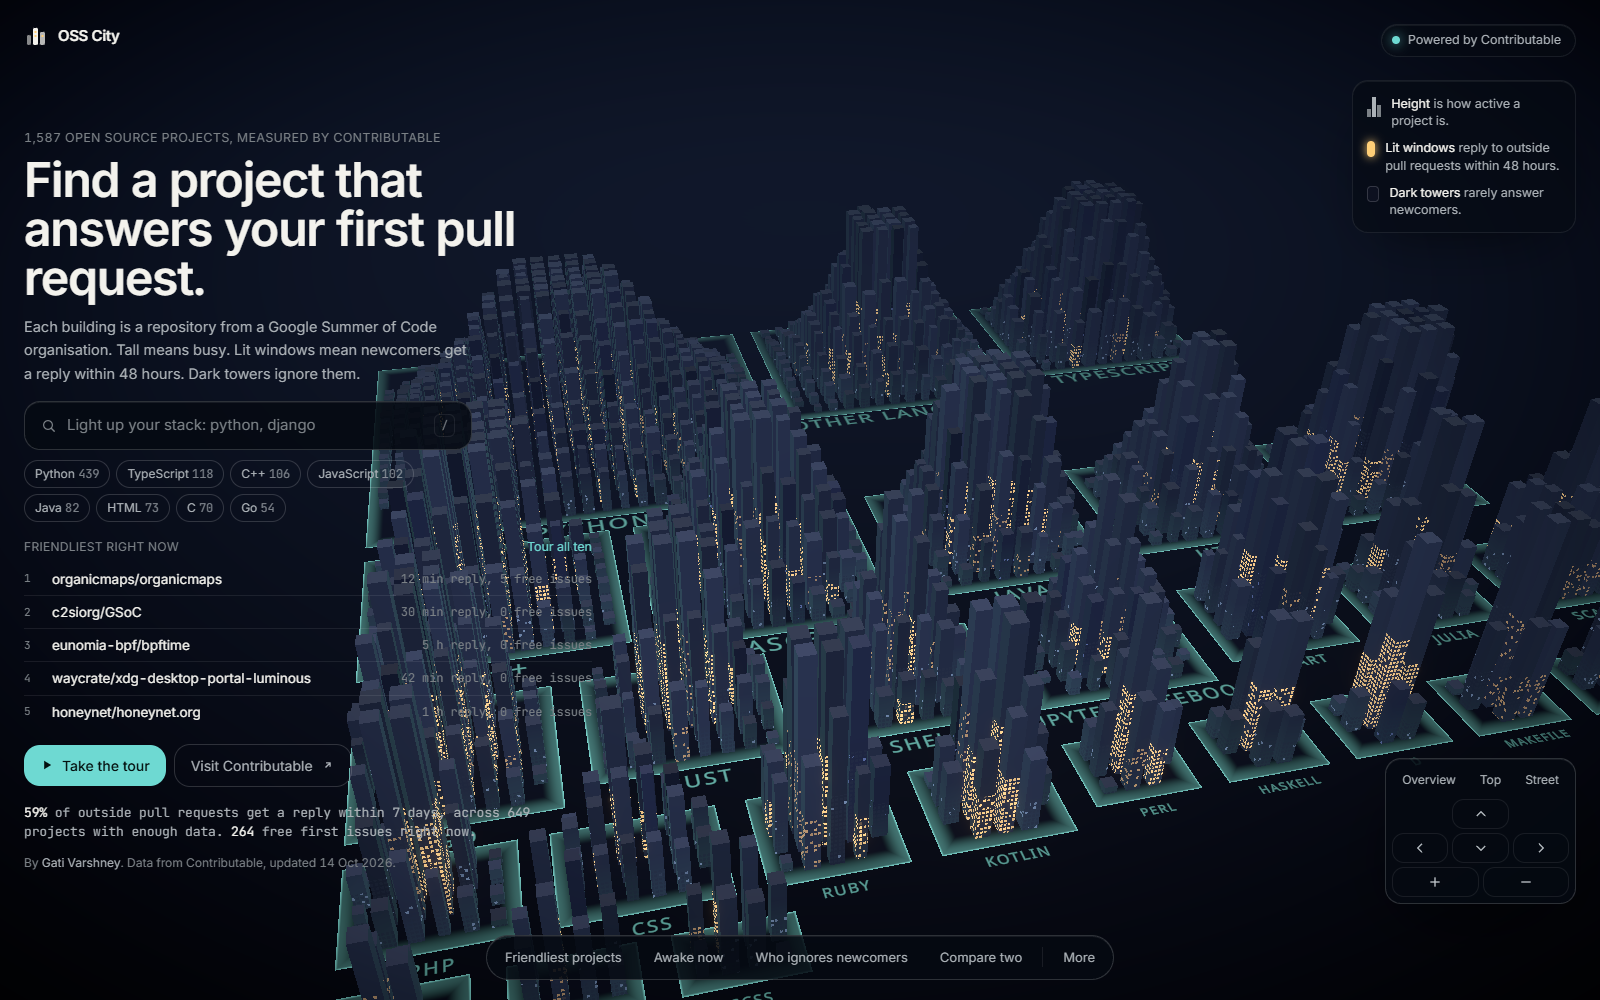
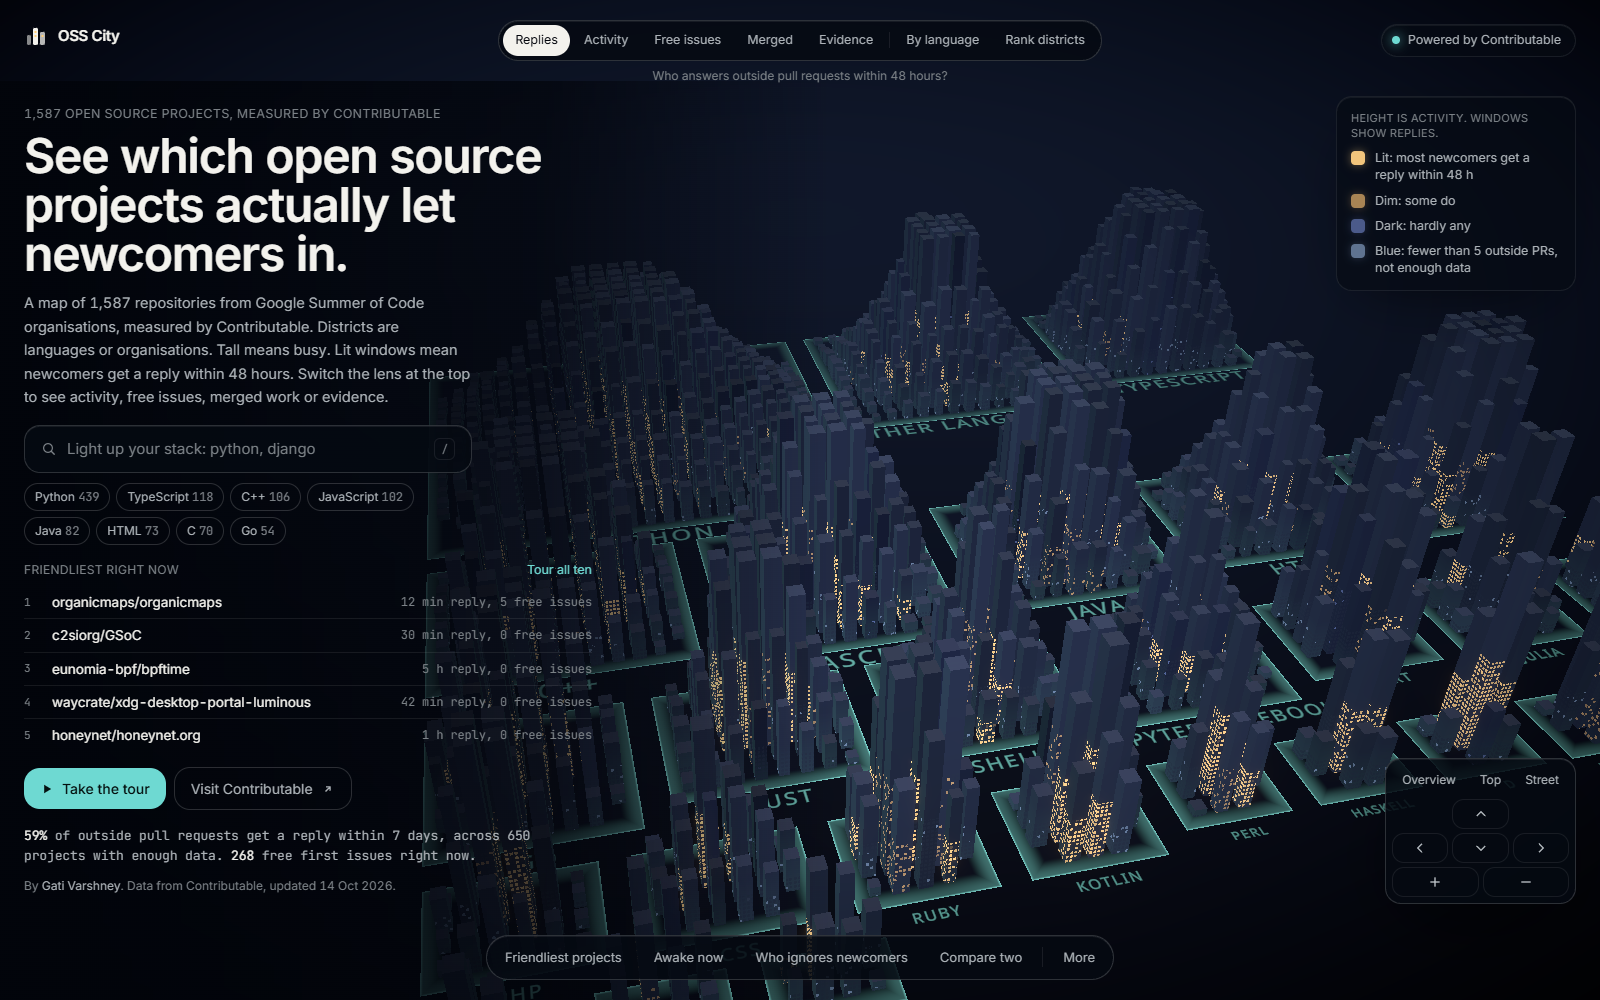
Refresh the screenshots and mark the project complete

diff --git a/README.md b/README.md
@@ -3,6 +3,11 @@
 Every open source project measured by [Contributable](https://contributable.vercel.app), built as a
 night city you can fly through. Live at [osscity.vercel.app](https://osscity.vercel.app).
 
+Status: complete. OSS City is a finished companion to Contributable, not a product under active
+development. It stays live and keeps itself current from Contributable's published data, and the
+code is here for anyone curious about rendering 1,600 instanced buildings with React Three Fiber,
+or about turning a measured dataset into a map with lenses, districts and routes.
+
 ![The city at night: districts by language, towers lit where projects answer newcomers fast](docs/hero.png)
 
 ## How to read the city
